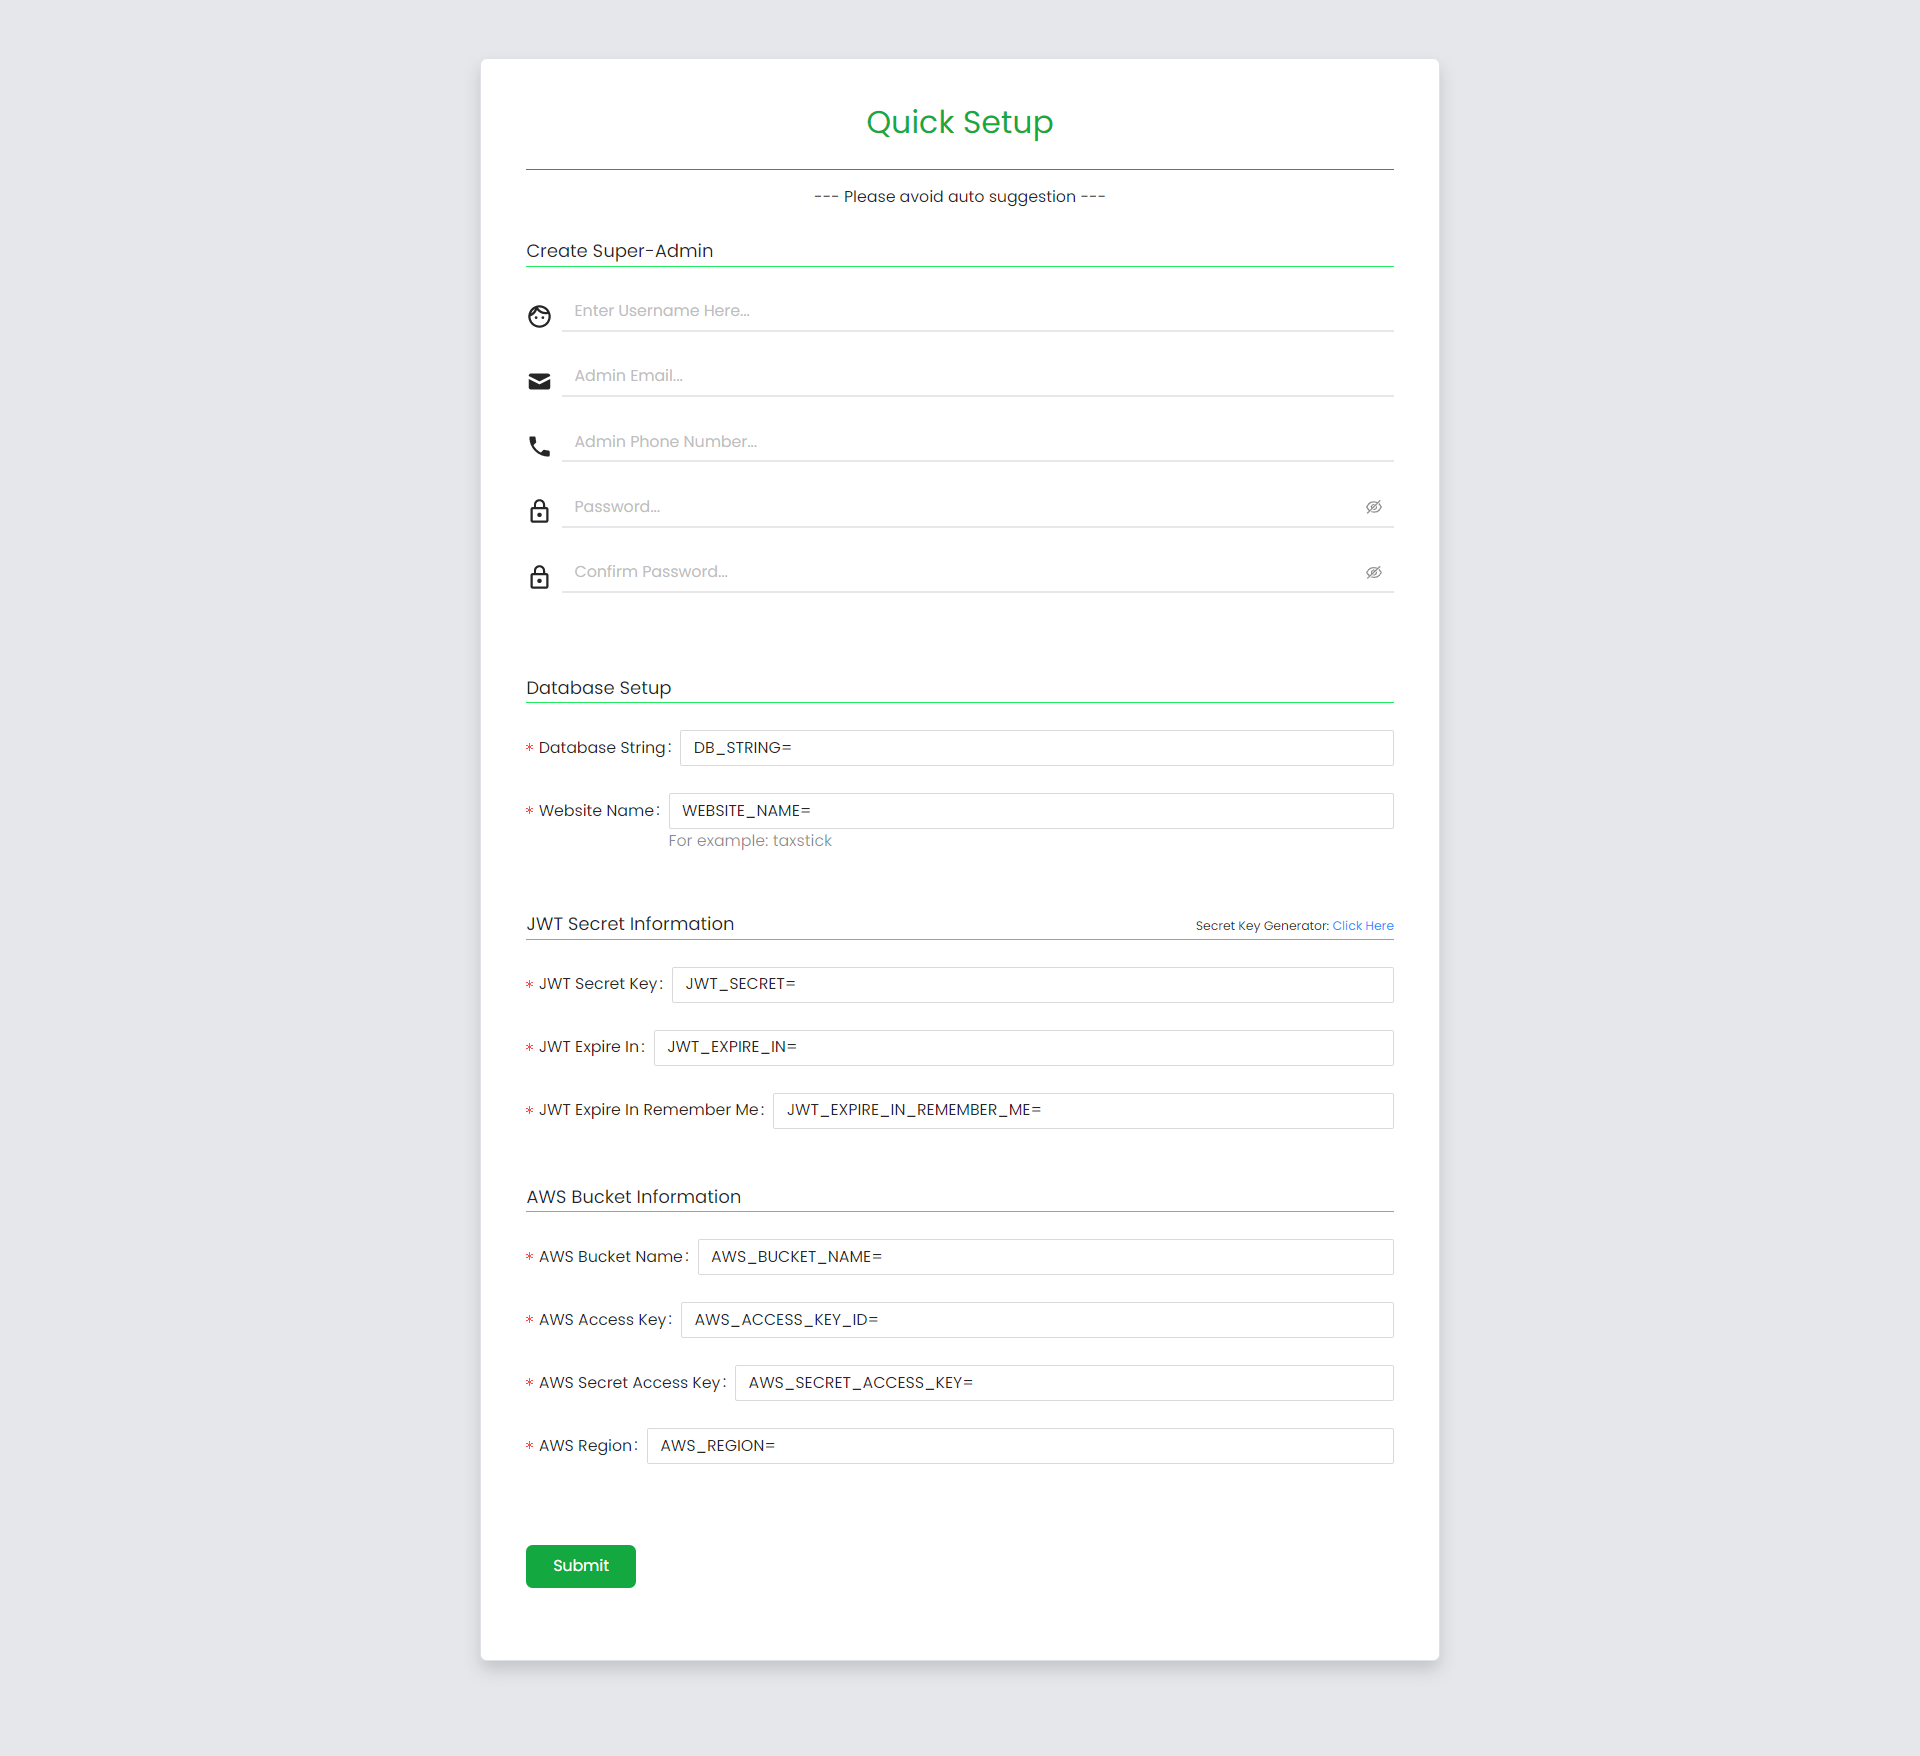
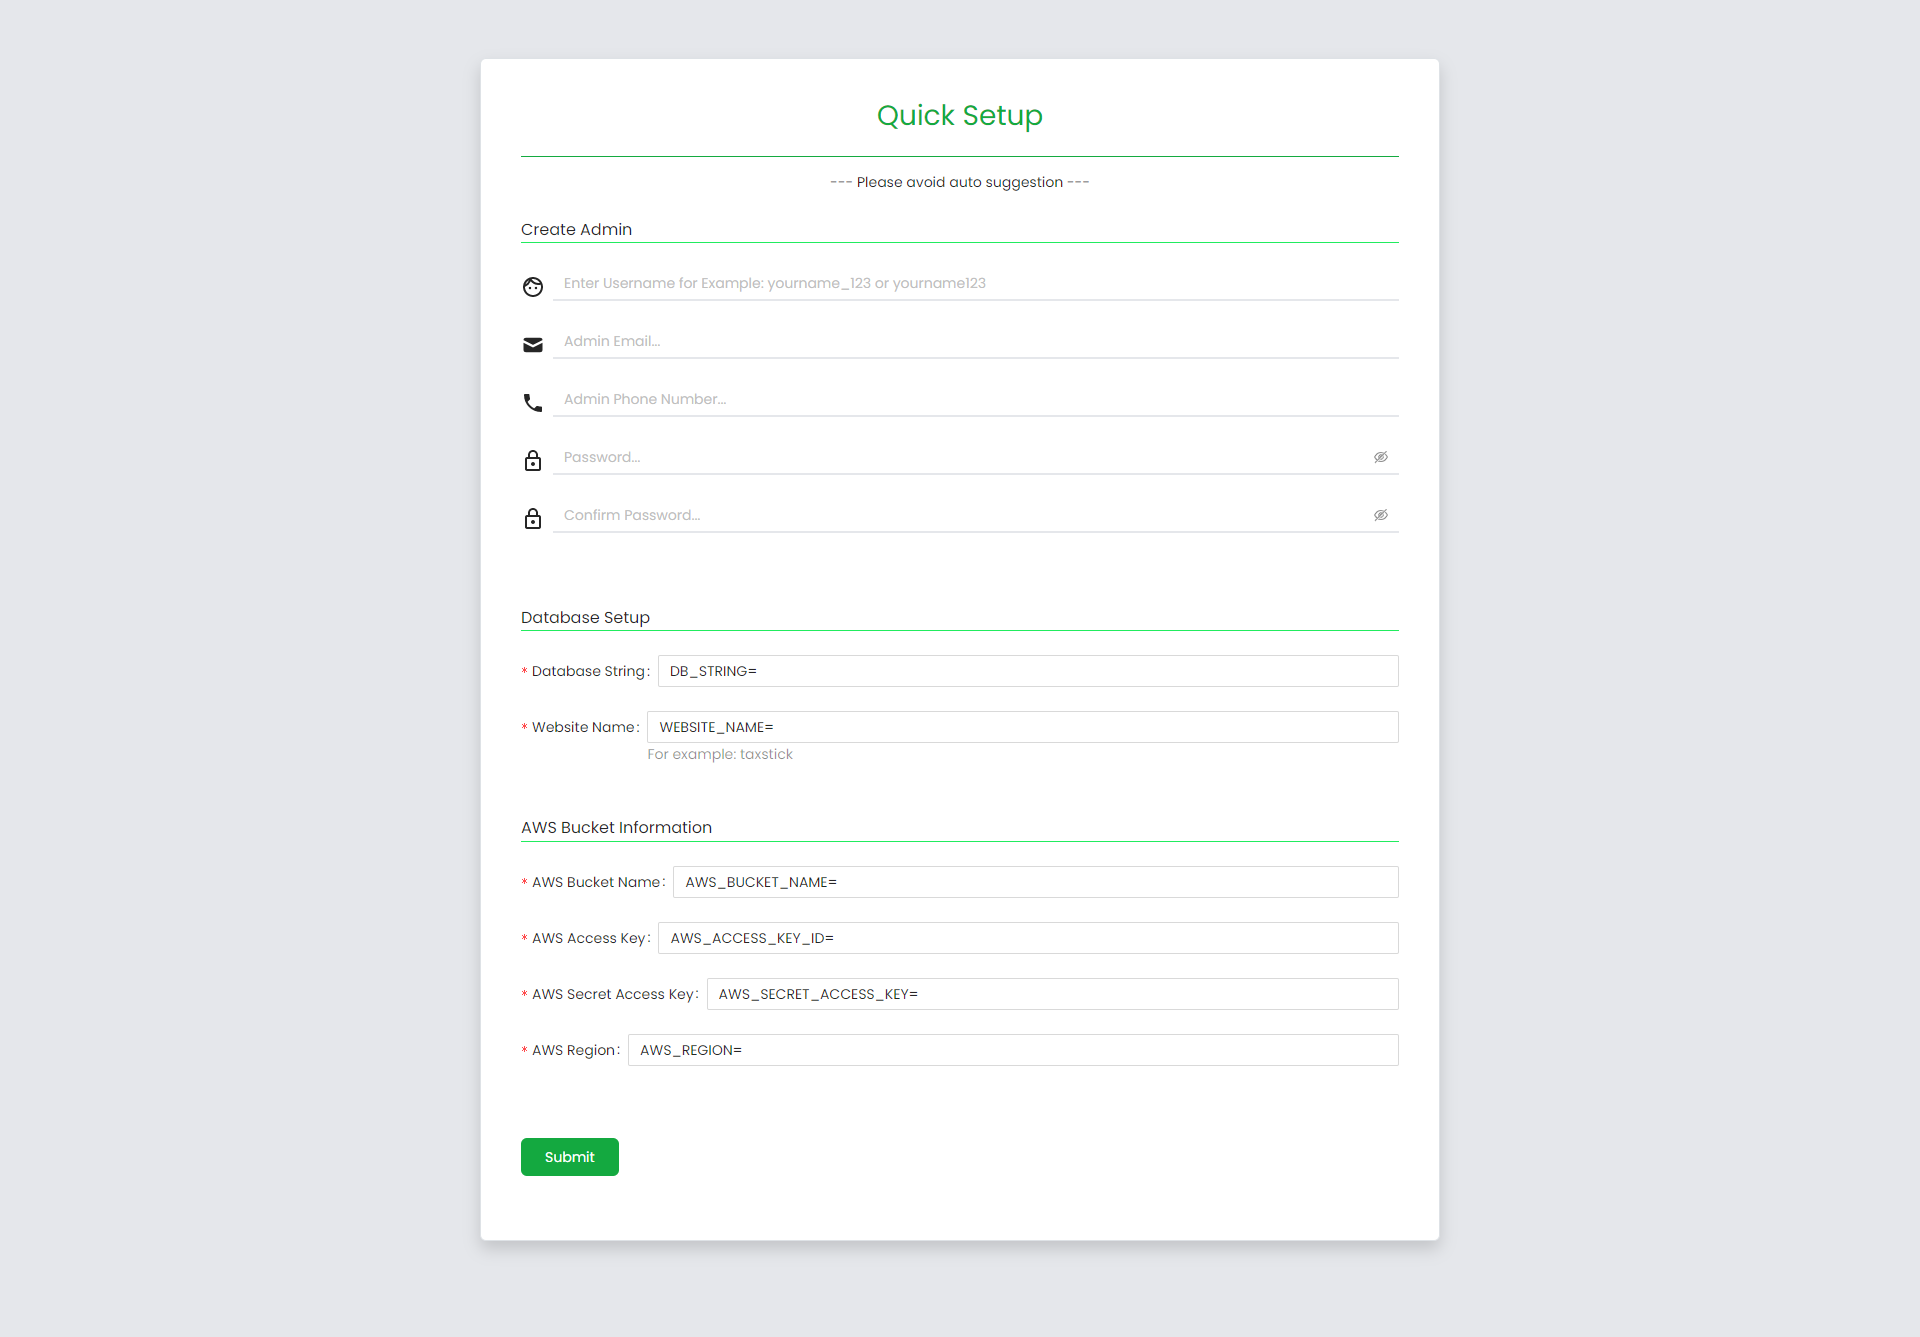
database proper guideline

diff --git a/pages/instruction/setting/index.js b/pages/instruction/setting/index.js
@@ -1,8 +1,15 @@
 import Link from 'next/link';
+import { useRouter } from 'next/router';
 import React from 'react';
 import AdminLayout from '../../../layout/adminLayout';
 
 const Setting = () => {
+    const router = useRouter();
+
+    const handledatabase = () => {
+        router.push('/instruction/setting/db/')
+    }
+
     return (
         <AdminLayout>
             <div className='bg-gray-50 h-auto m-6 w-[90%] text-[16px] p-4'>
@@ -15,52 +22,15 @@ const Setting = () => {
                     </div>
                 </div>
                 <div className='my-4'>
-                    <h5 className='border-b-[1px] border-black capitalize'>Super Admin creation</h5>
+                    <h5 className='border-b-[1px] border-black capitalize'> Admin creation</h5>
                     <div className='m-4'>
-                        <p>In this section, the super admin or company owner has to provide the basic information like username, email, phone number and password to activate the website.</p>
+                        <p>In this section, the admin or company owner has to provide the basic information like username, email, phone number and password to activate the website.</p>
                         <img className='h-auto w-auto' src="/images/s1.png" alt="" />
                     </div>
                 </div>
                 <div className='my-4'>
-                    <h5 className='border-b-[1px] border-black capitalize'>Database setup</h5>
-                    <div className='m-4 '>
-                        <div>Next, you have to setup the database. Here, we are suggesting to create a MongoDB database in MongoDB Atlas. Also, you can create database on your server too. Now follow the below steps.
-                            <ul className='list-disc'>
-                                <li>At first, you have to create a MongoDB Atlas account. <Link href="https://www.mongodb.com/atlas/database"><a >Click here</a></Link> to create account.You can choose any plan, also you can choose <span className='text-red-500'>free shared</span> plan too.
-                                </li>
-                                <li className='my-4'>Now you can see of your mondoDB account dashboard. You have to create <span className='text-red-500 capitalize'>network access</span>. We recommend to put your server IP address to maintain the security. Also you can set it public access, which is not recommended.
-                                    <img className='h-auto w-auto my-4' src="/images/altas2.png" alt="" />
-                                </li>
-                                <li className='my-4'>Now you have to click <span className='text-red-500'>Database Access</span> to create new database user. You can simply put username and password to create database user. Please remember the username and password.
-                                    <img className='h-auto w-auto my-4' src="/images/altas1.png" alt="" />
-                                </li>
-                                <li className='my-4'>Now click on <span className='text-red-500'>Database</span>. Next click on <span className='text-red-500'>Connect</span>
-                                    <img className='h-auto w-auto my-4' src="/images/s6.png" alt="" /></li>
-
-                                <li className='my-4'>Next click on <span className='text-red-500'>Connect using MongoDB Compass.</span>
-                                    <img className='h-auto w-auto my-4' src="/images/s7.png" alt="" />
-                                </li>
-                                <li>You will get a collection URL like below, you have to give the database username and password that you previously created in <span className='text-red-500'>Database Access step.</span>
-                                    <img className='h-auto w-auto my-4' src="/images/s5.png" alt="" />
-                                </li>
-                                <li>Right now, Your Database creation process is done. Just copy the URL from your mongoDB atlas account like the upper image. Now you have to paste the URL in <span className='text-red-500'>Database String</span> field. Also you have to put company website name like taxstick.</li>
-                        <img className='h-auto w-auto my-2' src="/images/s2.png" alt="" />
-                            </ul>
-                        </div>
-                    </div>
-                </div>
-                <div className='my-4'>
-                    <h5 className='border-b-[1px] border-black capitalize'>JWT Information</h5>
-                    <div className='m-4'>
-                        <p>JWT means JSON Web Token. This token is used to secure your website.</p>
-                        <ul className='list-disc'>
-                            <li>First of all you have to fill JWT secret key. You can generate the secret key from <Link href="http://www.sha1-online.com/"><a target='_blank' rel="opener" >here</a></Link>. Now you have to put any value to generate the secret key(hash value). Now copy the secret value and paste it in JWT secret key field.</li>
-                            <li>Jwt Expire time: Now you have to set JWT expire time  like 1h or 5h (A maximum of 24h should be given).
-                            </li>
-                            <li>Jwt Expire in Remember me option: In the case of log in section if you want to activate the remember me option just put expire time like 365h.</li>
-                        </ul>
-                        <img className='h-auto w-auto' src="/images/s3.png" alt="" />
-                    </div>
+                    <h5 className='border-b-[1px] border-black capitalize'>Database setup </h5>
+                    <p onClick={handledatabase} className='text-red-500 w-[100px] text-center p-2 rounded border-2 border-gray-100 font-medium cursor-pointer hover:border-2 hover:border-red-500'>Click here</p>
                 </div>
                 <div className='my-4'>
                     <h5 className='border-b-[1px] border-black capitalize'>AWS Bucket Information</h5>

diff --git a/pages/instruction/setting/db.js b/pages/instruction/setting/db.js
@@ -1,0 +1,66 @@
+import Link from 'next/link';
+import { useRouter } from 'next/router';
+import React from 'react';
+import { BsArrowReturnLeft } from 'react-icons/bs';
+import AdminLayout from '../../../layout/adminLayout';
+
+const Database = () => {
+    const router = useRouter();
+    const handleRouteChange = () => {
+        router.push('/instruction/setting/')
+    }
+    return (
+        <AdminLayout>
+            <div className='bg-gray-50 h-auto m-6 w-[90%] text-[16px] p-4'>
+                <p onClick={handleRouteChange} className='flex items-center gap-2 cursor-pointer text-red-600'><span className='mt-1'><BsArrowReturnLeft /></span> Back</p>
+                <h4 className='text-center'>MongoDB database Setup Information</h4>
+                <div className='my-4'>
+                    <h5 className='border-b-[1px] border-black capitalize'>Database setup</h5>
+                    <div className='m-4 '>
+                        <div>Next, you have to setup the database. Here, we are suggesting to create a MongoDB database in MongoDB Atlas. Also, you can create database on your server too. Now follow the below steps.
+                            <ul className='list-disc'>
+                                <li>At first, you have to create a MongoDB Atlas account. <Link href="https://www.mongodb.com/atlas/database"><a >Click here</a></Link> to create account.You can choose any plan, also you can choose <span className='text-red-500'>free shared</span> plan too.
+                                    <img className='h-auto w-auto my-4' src="/images/ndb1.png" alt="" />
+                                </li>
+                                <li>Make sure you have to select free shared and hit enter <span className='text-red-500'>Create Clustor</span>
+                                    <img className='h-auto w-auto my-4' src="/images/ndb2.png" alt="" />
+                                </li>
+                                <li>Then you can see your personal MongoDB database dashboard.Click <span className='text-red-500'>Build a Database</span> button.
+                                    <img className='h-auto w-auto my-4' src="/images/ndb0.png" alt="" />
+                                </li>
+                                <li>Please fill in this information carefully. You need to follow these picture instructions.
+                                    <img className='h-auto w-auto my-4' src="/images/ndb3.png" alt="" />
+                                </li>
+                                <li>Now Click <span className='text-red-500'>Network access.</span> and Click <span className='text-red-500'>ADD IP ADDRESS</span>, then you can see a modal.
+                                    <img className='h-auto w-auto my-4' src="/images/ndb4a.png" alt="" />
+                                </li>
+                                <li>Now you can see of your mondoDB account dashboard. You have to create Network Access. We recommend to put your server IP address to maintain the security. Also you can set it public access, which is not recommended.
+                                    <img className='h-auto w-auto my-4' src="/images/ndb4.png" alt="" />
+                                </li>
+                                <li>Now delete the previous IP address. Keep the new one.
+                                    <img className='h-auto w-auto my-4' src="/images/ndb5.png" alt="" />
+                                </li>
+                                <li>Then you need to go to the main dashboard of the database. And click on <span className='text-red-500'>Connect</span>
+                                    <img className='h-auto w-auto my-4' src="/images/ndb6.png" alt="" />
+                                </li>
+                                <li>Now select <span className='text-red-500'>connect your application.</span>
+                                    <img className='h-auto w-auto my-4' src="/images/ndb6a.png" alt="" />
+                                </li>
+                                <li>Now copy the link carefully.
+                                    <img className='h-auto w-auto my-4' src="/images/ndb7.png" alt="" />
+                                </li>
+                                <li>In the link below, you need to enter your username, password and a database name of your choice as shown in the given image.
+                                    <img className='h-auto w-auto my-4' src="/images/ndb8.png" alt="" />
+                                </li>
+                                <li>Right now, Your Database creation process is done. Just copy the URL from your mongoDB atlas account like the upper image. Now you have to paste the URL in <span className='text-red-500'>Database String</span> field. Also you have to put company website name like taxstick.</li>
+                                <img className='h-auto w-auto my-2' src="/images/s2.png" alt="" />
+                            </ul>
+                        </div>
+                    </div>
+                </div>
+            </div>
+        </AdminLayout>
+    );
+};
+
+export default Database;

diff --git a/pages/instruction/backend/index.js b/pages/instruction/backend/index.js
@@ -19,36 +19,13 @@ const backend = () => {
                             Then you have to go to your file manager of your server panel or cPanel, then upload the taxstick-backend.zip file.
                             <img className='h-[500px] w-auto mt-4' src="/images/b1.png" alt="" />
                         </li>
-                        {/* <li className='my-4'>
-                        <p className='border-b-[1px] border-black font-semibold text-[18px]'>Step 2</p>
-                            After clicking upload button, you can get this type of window and you have to select upload button.
-                            <img className='h-[500px] w-auto mt-4' src="/images/b2.png" alt="" />
-                        </li>
-                        <li className='my-4'>
-                        <p className='border-b-[1px] border-black font-semibold text-[18px]'>Step 4</p>
-                            Then select <span className='italic text-red-400'>taxstick-backend.zip</span>  file and click open button.
-                            <img className='h-[500px] w-auto mt-4' src="/images/b3.png" alt="" />
-                        </li>
-                        <li className='my-4'>
-                        <p className='border-b-[1px] border-black font-semibold text-[18px]'>Step 5</p>
-                            Then select the Upload button and your project will start uploading to your hosting server.
-                            <img className='h-[500px] w-auto mt-4' src="/images/b4.png" alt="" />
-                        </li>
-                        <li className='my-4'>
-                        <p className='border-b-[1px] border-black font-semibold text-[18px]'>Step 6</p>
-                            After finishing uploading, close the window
-                            <img className='h-[500px] w-auto mt-4' src="/images/b5.png" alt="" />
-                        </li> */}
+                    
                         <li className='my-4'>
                         <p className='border-b-[1px] border-black font-semibold text-[18px]'>Step 3</p>
                             Then <span className='italic text-red-400'>Unzip</span> the file,
                             <img className='h-[500px] w-auto mt-4' src="/images/b6.png" alt="" />
                         </li>
-                        {/* <li className='my-4'>
-                        <p className='border-b-[1px] border-black font-semibold text-[18px]'>Step 8</p>
-                             Then you can see the <span className='italic text-red-400'>decompress window</span>  and click the confirm button, your file is now unzipped,
-                            <img className='h-[500px] w-auto mt-4' src="/images/b7.png" alt="" />
-                        </li> */}
+                    
                         <li className='my-4'>
                         <p className='border-b-[1px] border-black font-semibold text-[18px]'>Step 4</p>
                              Now you can see the uploaded files.
